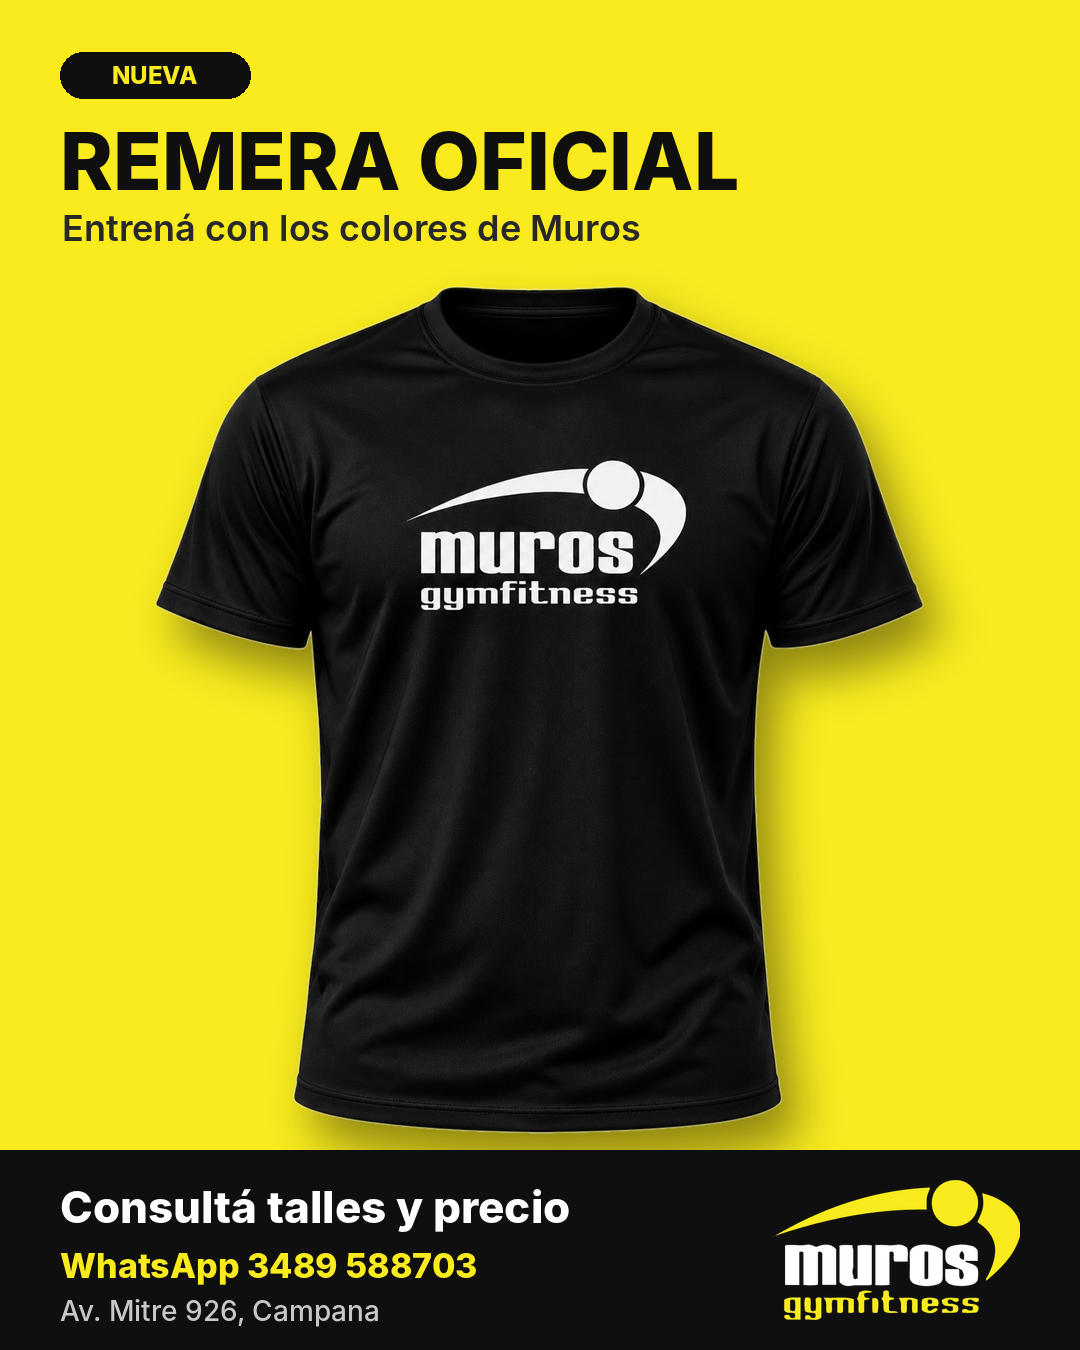
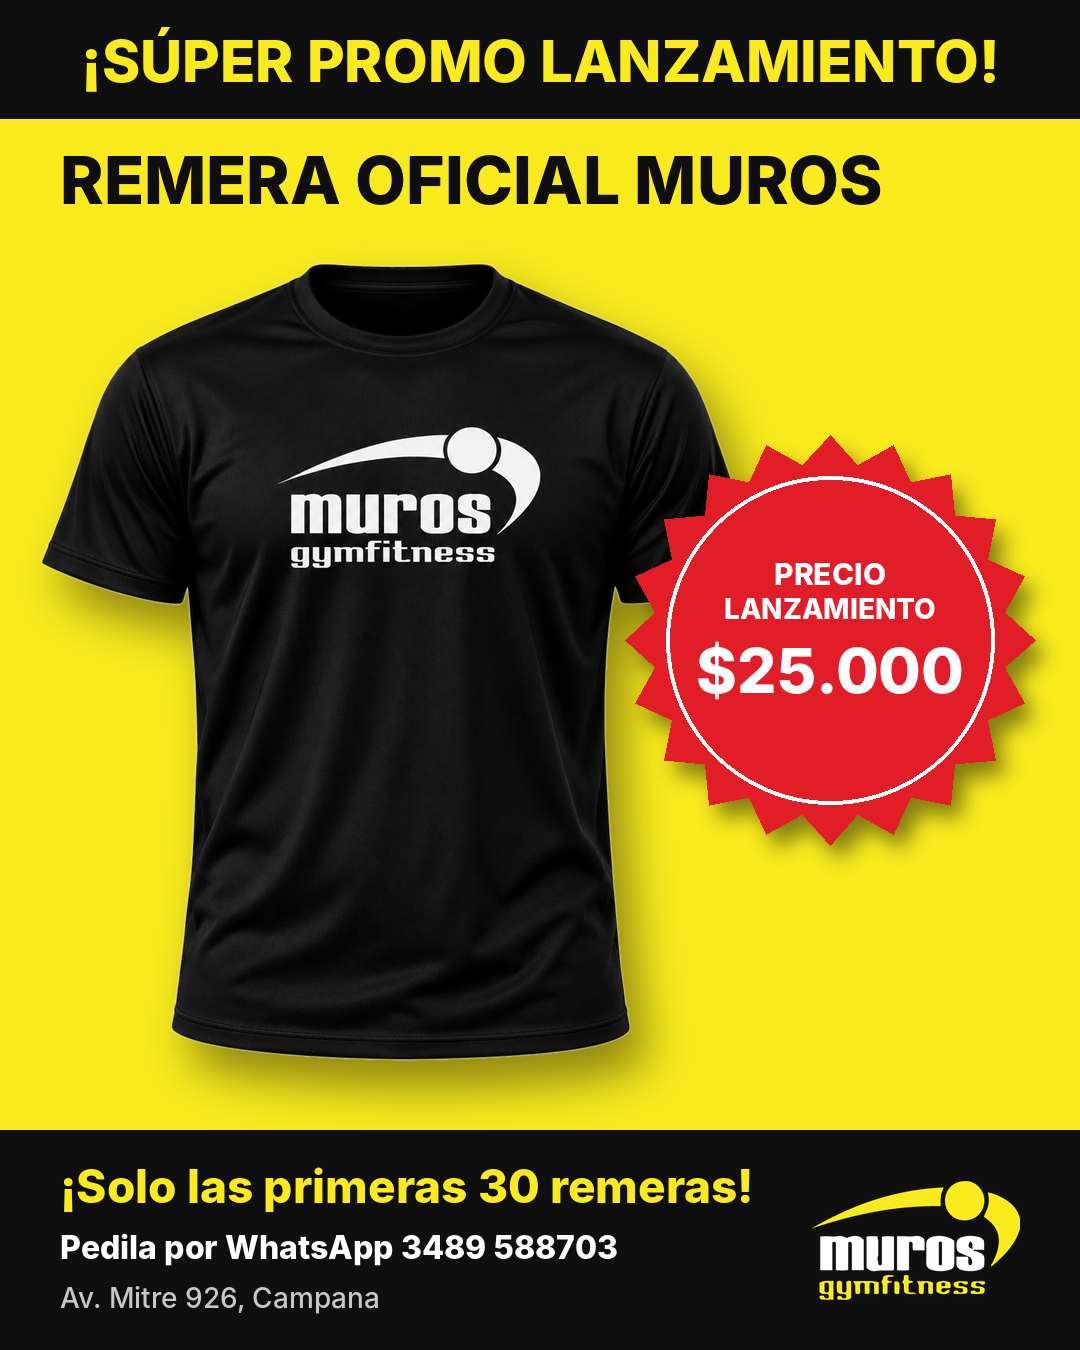
Muros t-shirt: launch promo, $25.000 price, first 30 units
Claude-Session: https://claude.ai/code/session_013NcRD2AFDQkC3HztVtgsXw

diff --git a/posts/build_remera_muros.py b/posts/build_remera_muros.py
@@ -14,29 +14,42 @@ for c in [(0,0),(src.width-1,0),(0,src.height-1),(src.width-1,src.height-1)]:
 alpha=m.point(lambda v:0 if v==128 else 255).filter(ImageFilter.GaussianBlur(1.2))
 shirt=src.convert("RGBA"); shirt.putalpha(alpha)
 shirt=shirt.crop(alpha.getbbox())
-shirt.thumbnail((850,850),Image.LANCZOS)
+shirt.thumbnail((800,800),Image.LANCZOS)
 
+import math
 img=Image.new("RGBA",(W,H),Y+(255,))
-d=ImageDraw.Draw(img)
-# soft shadow under the shirt
-sx=(W-shirt.width)//2; sy=285
+# shirt, shifted left to make room for the price burst
+sx=40; sy=262
 sh=Image.new("RGBA",(W,H),(0,0,0,0))
 sh.paste((0,0,0,110),(sx+18,sy+28),shirt.split()[3])
 img=Image.alpha_composite(img,sh.filter(ImageFilter.GaussianBlur(22)))
 img.alpha_composite(shirt,(sx,sy))
 d=ImageDraw.Draw(img)
 
-d.rounded_rectangle((60,52,60+190,52+46),radius=23,fill=K)
-d.text((155,75),"NUEVA",font=F("Inter-ExtraBold",24),fill=Y,anchor="mm")
-d.text((60,112),"REMERA OFICIAL",font=F("Inter-ExtraBold",80),fill=K)
-d.text((62,206),"Entrená con los colores de Muros",font=F("Inter-SemiBold",36),fill=(40,40,40))
+# top promo band
+d.rectangle((0,0,W,118),fill=K)
+d.text((W//2,60),"¡SÚPER PROMO LANZAMIENTO!",font=F("Inter-ExtraBold",58),fill=Y,anchor="mm")
+d.text((60,140),"REMERA OFICIAL MUROS",font=F("Inter-ExtraBold",66),fill=K)
+
+# price burst
+cx,cy,R=830,640,205
+pts=[(cx+(R if i%2==0 else R*0.86)*math.cos(math.pi*i/20-math.pi/2),
+      cy+(R if i%2==0 else R*0.86)*math.sin(math.pi*i/20-math.pi/2)) for i in range(40)]
+bs=Image.new("RGBA",(W,H),(0,0,0,0)); ImageDraw.Draw(bs).polygon([(x+10,y+14) for x,y in pts],fill=(0,0,0,120))
+img=Image.alpha_composite(img,bs.filter(ImageFilter.GaussianBlur(10)))
+d=ImageDraw.Draw(img)
+d.polygon(pts,fill=(225,30,40))
+d.ellipse((cx-R*0.8,cy-R*0.8,cx+R*0.8,cy+R*0.8),outline="white",width=4)
+d.text((cx,cy-66),"PRECIO",font=F("Inter-ExtraBold",30),fill="white",anchor="mm")
+d.text((cx,cy-32),"LANZAMIENTO",font=F("Inter-ExtraBold",28),fill="white",anchor="mm")
+d.text((cx,cy+30),"$25.000",font=F("Inter-ExtraBold",62),fill="white",anchor="mm")
 
 # bottom band
-d.rectangle((0,1150,W,H),fill=K)
-d.text((60,1180),"Consultá talles y precio",font=F("Inter-ExtraBold",44),fill="white")
-d.text((60,1245),"WhatsApp 3489 588703",font=F("Inter-ExtraBold",34),fill=Y)
-d.text((60,1293),"Av. Mitre 926, Campana",font=F("Inter-Medium",28),fill=(200,200,200))
+d.rectangle((0,1130,W,H),fill=K)
+d.text((60,1158),"¡Solo las primeras 30 remeras!",font=F("Inter-ExtraBold",46),fill=Y)
+d.text((60,1228),"Pedila por WhatsApp 3489 588703",font=F("Inter-ExtraBold",32),fill="white")
+d.text((60,1280),"Av. Mitre 926, Campana",font=F("Inter-Medium",28),fill=(200,200,200))
 logo=Image.open(os.path.join(here,"logo-muros.png")).convert("RGBA")
-logo.thumbnail((250,140),Image.LANCZOS)
-img.alpha_composite(logo,(W-60-logo.width,1250-logo.height//2))
+logo.thumbnail((210,120),Image.LANCZOS)
+img.alpha_composite(logo,(W-60-logo.width,1300-logo.height))
 img.convert("RGB").save(os.path.join(here,"remera-muros-venta.png"),quality=95)
